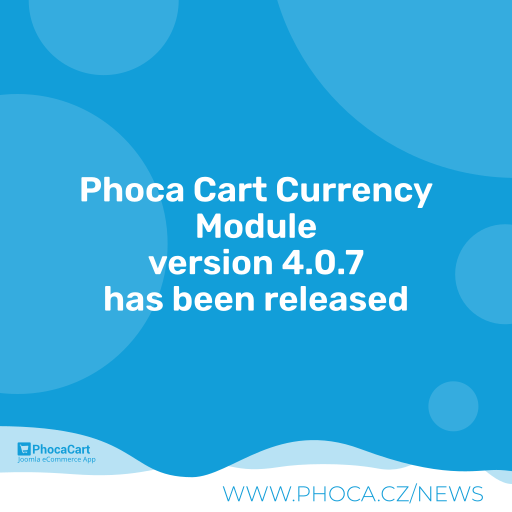
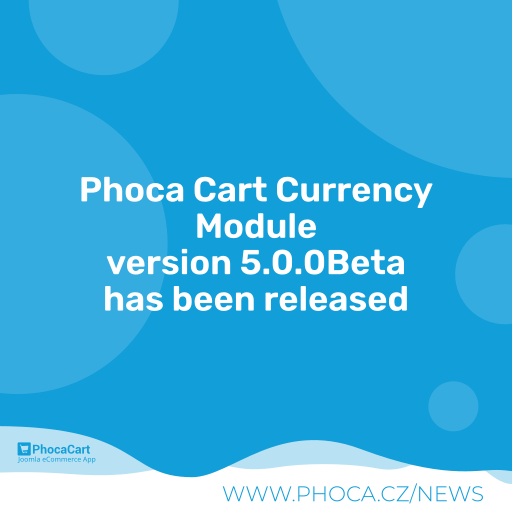
4.0.9

Changed region(s): [[0.1875, 0.4688, 0.8125, 0.5625]]

diff --git a/mod_phocacart_currency.php b/mod_phocacart_currency.php
@@ -8,15 +8,17 @@
  */
 
 defined('_JEXEC') or die;// no direct access
-
+use Joomla\CMS\Component\ComponentHelper;
 use Joomla\CMS\Factory;
+use Joomla\CMS\Language\Text;
 use Joomla\CMS\Helper\ModuleHelper;
+use Joomla\CMS\Router\Route;
 
 /** @var \Joomla\Registry\Registry $params */
 
-if (!JComponentHelper::isEnabled('com_phocacart', true)) {
-	$app = JFactory::getApplication();
-	$app->enqueueMessage(JText::_('Phoca Cart Error'), JText::_('Phoca Cart is not installed on your system'), 'error');
+if (!ComponentHelper::isEnabled('com_phocacart', true)) {
+	$app = Factory::getApplication();
+	$app->enqueueMessage(Text::_('Phoca Cart Error'), Text::_('Phoca Cart is not installed on your system'), 'error');
 	return;
 }
 
@@ -35,10 +37,10 @@ phocacartimport('phocacart.price.price');*/
 
 $moduleclass_sfx 					= htmlspecialchars((string)$params->get('moduleclass_sfx'), ENT_COMPAT, 'UTF-8');
 
-//$document			= JFactory::getDocument();
-// 			= JComponentHelper::getParams('com_phocacart') ;
+//$document			= Factory::getDocument();
+// 			= ComponentHelper::getParams('com_phocacart') ;
 
-$lang = JFactory::getLanguage();
+$lang = Factory::getLanguage();
 //$lang->load('com_phocacart.sys');
 $lang->load('com_phocacart');
 
@@ -52,7 +54,7 @@ $s = PhocacartRenderStyle::getStyles();
 $uri 			= \Joomla\CMS\Uri\Uri::getInstance();
 $action			= $uri->toString();
 $actionBase64	= base64_encode($action);
-$linkCheckout	= JRoute::_(PhocacartRoute::getCheckoutRoute());
+$linkCheckout	= Route::_(PhocacartRoute::getCheckoutRoute());
 
 $session 	= Factory::getApplication()->getSession();
 $activeCurrency	= (int)$session->get('currency', PhocacartCurrency::getDefaultCurrency(), 'phocaCart');
@@ -74,5 +76,5 @@ $currArray		= PhocacartCurrency::getCurrenciesArray();
 //$selectBox 		= PhocacartCurrency::getCurrenciesArray();
 //$selectBox 		= PhocacartCurrency::getCurrenciesListBox();
 
-require(JModuleHelper::getLayoutPath('mod_phocacart_currency', $params->get('layout', 'default')));
+require(ModuleHelper::getLayoutPath('mod_phocacart_currency', $params->get('layout', 'default')));
 ?>

diff --git a/tmpl/default.php b/tmpl/default.php
@@ -7,11 +7,13 @@
  * @license http://www.gnu.org/copyleft/gpl.html GNU/GPL
  */
 defined('_JEXEC') or die;
+use Joomla\CMS\Language\Text;
+
 
 // Alternative View in e.g. position 22
 /*
 //$item 		= '<span class="'.$s['i']['globe'].'"></span>';// globe icon
-$item 		= JText::_('COM_PHOCACART_CURRENCY');// currency string
+$item 		= Text::_('COM_PHOCACART_CURRENCY');// currency string
 $item		= '';
 $count 		= count($currArray);// count of currencies
 
@@ -22,7 +24,7 @@ if (!empty($currArray)) {
 	foreach($currArray as $k => $v) {
 		$image = '';
 		if (isset($v->image) && $v->image != '') {
-			$image = '<img class="ph-currency-image-list" src="'.JURI::base(true). '/' . $v->image.'" alt="'.$v->code.'" />';
+			$image = '<img class="ph-currency-image-list" src="'.URI::base(true). '/' . $v->image.'" alt="'.$v->code.'" />';
 		}
 
 		if ($v->active == 1) {
@@ -71,7 +73,7 @@ echo '<input type="hidden" name="option" value="com_phocacart" />';
 echo '<input type="hidden" name="return" value="'.$actionBase64.'" />';
 echo '<div class="'.$s['c']['pull-right'].' ph-input-select-currencies-button">';
 if ($params->get('show_button', true)) {
-  echo '<button class="btn btn-primary btn-sm ph-btn"><span class="' . $s['i']['refresh'] . '"></span> ' . JText::_('COM_PHOCACART_CHANGE_CURRENCY') . '</button>';
+  echo '<button class="btn btn-primary btn-sm ph-btn"><span class="' . $s['i']['refresh'] . '"></span> ' . Text::_('COM_PHOCACART_CHANGE_CURRENCY') . '</button>';
 }
 echo '</div>';
 echo Joomla\CMS\HTML\HTMLHelper::_('form.token');

diff --git a/README.MD b/README.MD
@@ -60,7 +60,11 @@ Phoca Cart Currency Module - a Joomla! CMS module which displays currency select
 
 ## Version (Joomla! 4.x)
 
-4.0.7
+4.0.9
+
+## Version (Joomla! 5.x)
+
+5.0.0Beta
 
 
 
@@ -71,3 +75,17 @@ GNU/GPL
 
 
 This project is open source project - feel free to contribute! Thank you.
+
+
+
+## Social Media
+
+- [Phoca on Facebook](https://www.facebook.com/Phoca.cz)
+
+- [Phoca on X (Twitter)](https://twitter.com/PhocaCz)
+
+- [Phoca on YouTube](https://www.youtube.com/user/phocavideos)
+
+- [Phoca on GitHub](https://github.com/PhocaCz)
+
+- [Phoca on Reddit](https://www.reddit.com/user/PhocaCz)
